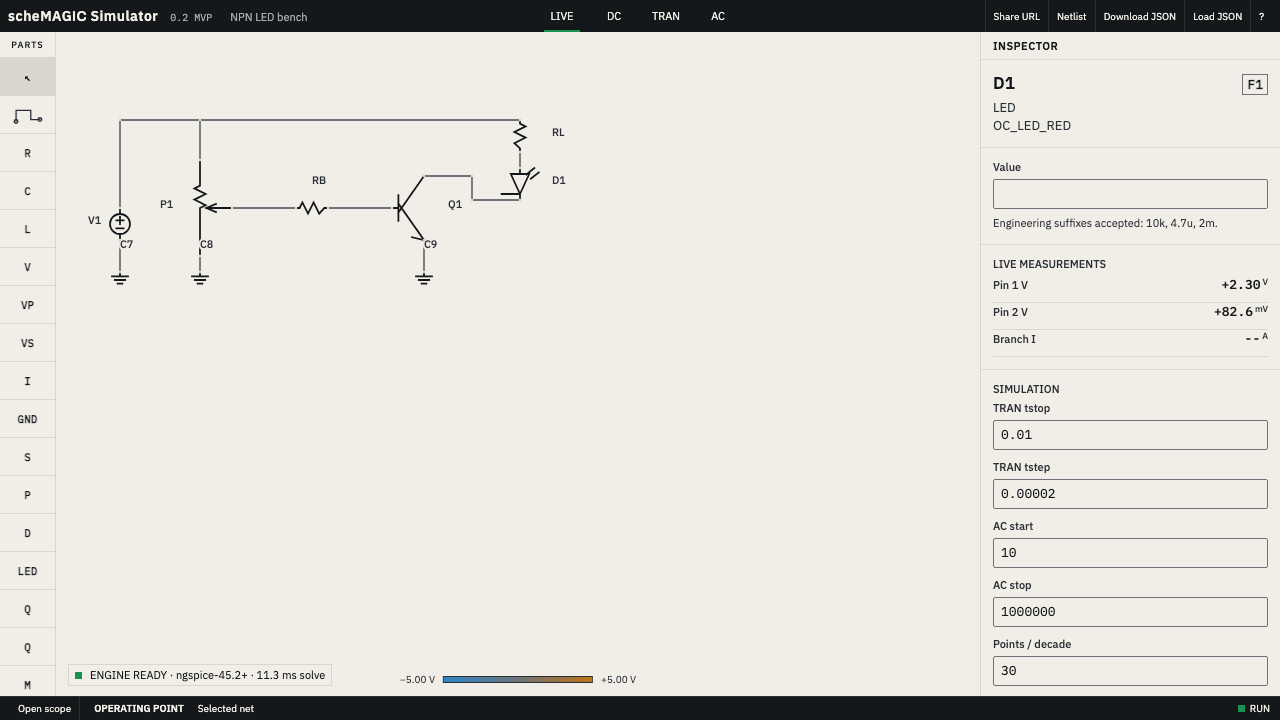
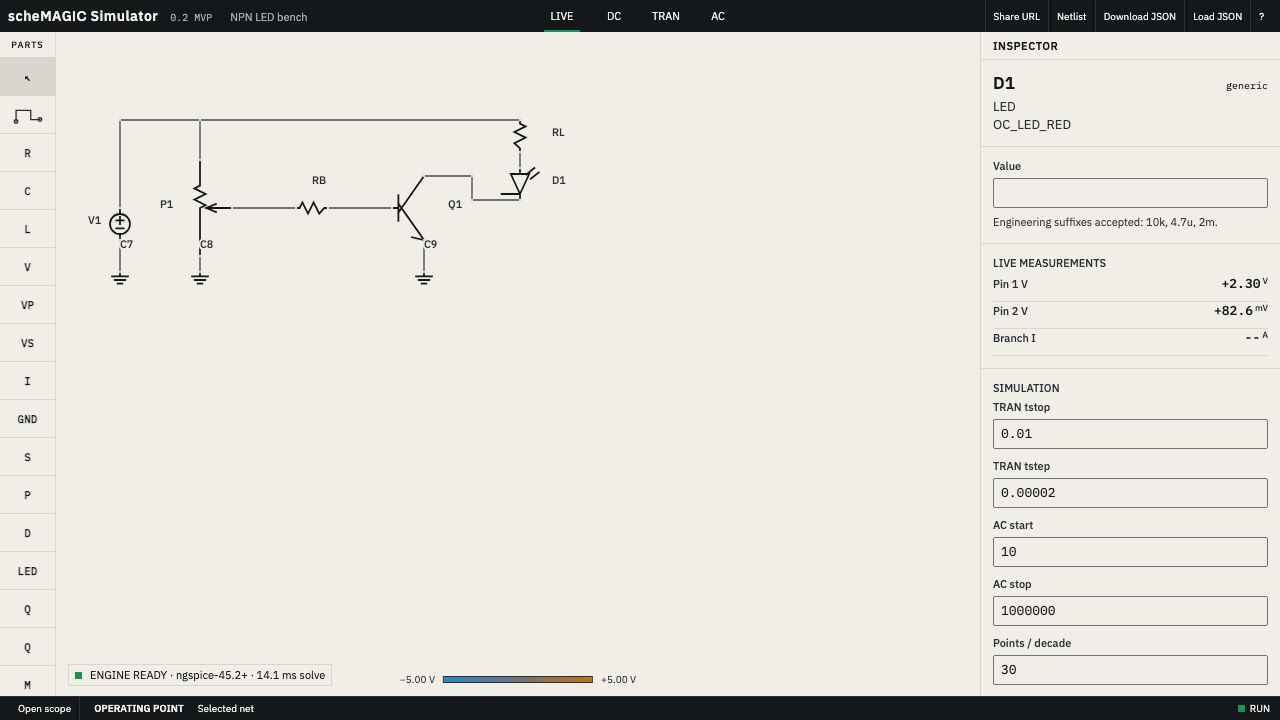
fix: restrict fidelity grades to real parts

diff --git a/apps/web/src/main.ts b/apps/web/src/main.ts
@@ -44,7 +44,7 @@ function componentCurrent(component:CircuitComponent):number|undefined{const nam
 function setStatus(text:string,state:"ready"|"busy"|"error"){statusText.textContent=text;statusIndicator.className=`run-indicator${state==="ready"?"":` ${state}`}`;must<HTMLElement>("#engine-banner").dataset.testid=state==="ready"?"engine-ready":"engine-banner";}
 function detail(component:CircuitComponent){const part=partByType(component.type);return{ref:component.label?.text??component.id.toUpperCase(),name:part.name,identity:component.mpn??"generic",note:part.note};}
 function valueLabel(component:CircuitComponent){if(component.type.startsWith("vsource"))return"Voltage";if(component.type==="isource")return"Current";if(component.type==="capacitor")return"Capacitance";if(component.type==="inductor")return"Inductance";return"Value";}
-function renderInspector(){const component=selected();if(!component){inspector.innerHTML=`<section class="inspector-section"><span class="field-label">NO SELECTION</span><p>Select a part to edit its properties.</p></section>${simConfigMarkup()}`;bindInspector();return;}const info=detail(component),current=componentCurrent(component),value=component.value??"";const editable=component.type!=="ground"&&component.type!=="opamp_ideal"&&component.type!=="bjt_npn"&&component.type!=="bjt_pnp"&&component.type!=="nmos"&&component.type!=="pmos";const pins=(generated?.componentNodes[component.id]??componentPinCount(component)).map((_,index)=>`<div class="measure-row"><span class="measure-label">Pin ${index+1} V</span>${readingMarkup(pinVoltage(component.id,index),"V")}</div>`).join("");inspector.innerHTML=`<section class="inspector-section"><div class="part-heading"><span class="part-ref">${esc(info.ref)}</span>${component.mpn?`<span class="fidelity">F1</span>`:`<span class="generic-tag">generic</span>`}</div><div class="part-name">${esc(info.name)}<br>${esc(info.identity)}</div>${info.note?`<p class="honesty-note">${esc(info.note)}</p>`:""}</section>${editable?`<section class="inspector-section"><label class="field-label" for="component-value">${valueLabel(component)}</label><input class="value-input" id="component-value" value="${esc(String(value))}" inputmode="decimal"/><p class="honesty-note">Engineering suffixes accepted: 10k, 4.7u, 2m.</p>${component.type==="potentiometer"?`<label class="field-label wiper-label" for="wiper-value">Wiper position</label><input class="value-input" id="wiper-value" type="range" min="0.005" max="0.995" step="0.001" value="${Number(component.params?.t??.5)}"/><output id="wiper-percent">${Math.round(Number(component.params?.t??.5)*100)} %</output>`:""}${component.type==="switch_spst"?`<label class="switch-row"><input id="switch-state" type="checkbox" ${component.params?.closed?"checked":""}/> Closed</label>`:""}</section>`:""}<section class="inspector-section"><span class="field-label">LIVE MEASUREMENTS</span>${pins}<div class="measure-row"><span class="measure-label">Branch I</span>${readingMarkup(current,"A")}</div></section>${simConfigMarkup()}`;bindInspector();}
+function renderInspector(){const component=selected();if(!component){inspector.innerHTML=`<section class="inspector-section"><span class="field-label">NO SELECTION</span><p>Select a part to edit its properties.</p></section>${simConfigMarkup()}`;bindInspector();return;}const info=detail(component),current=componentCurrent(component),value=component.value??"";const editable=component.type!=="ground"&&component.type!=="opamp_ideal"&&component.type!=="bjt_npn"&&component.type!=="bjt_pnp"&&component.type!=="nmos"&&component.type!=="pmos";const pins=(generated?.componentNodes[component.id]??componentPinCount(component)).map((_,index)=>`<div class="measure-row"><span class="measure-label">Pin ${index+1} V</span>${readingMarkup(pinVoltage(component.id,index),"V")}</div>`).join("");inspector.innerHTML=`<section class="inspector-section"><div class="part-heading"><span class="part-ref">${esc(info.ref)}</span>${component.mpn&&!component.mpn.startsWith("OC_")?`<span class="fidelity">F1</span>`:`<span class="generic-tag">generic</span>`}</div><div class="part-name">${esc(info.name)}<br>${esc(info.identity)}</div>${info.note?`<p class="honesty-note">${esc(info.note)}</p>`:""}</section>${editable?`<section class="inspector-section"><label class="field-label" for="component-value">${valueLabel(component)}</label><input class="value-input" id="component-value" value="${esc(String(value))}" inputmode="decimal"/><p class="honesty-note">Engineering suffixes accepted: 10k, 4.7u, 2m.</p>${component.type==="potentiometer"?`<label class="field-label wiper-label" for="wiper-value">Wiper position</label><input class="value-input" id="wiper-value" type="range" min="0.005" max="0.995" step="0.001" value="${Number(component.params?.t??.5)}"/><output id="wiper-percent">${Math.round(Number(component.params?.t??.5)*100)} %</output>`:""}${component.type==="switch_spst"?`<label class="switch-row"><input id="switch-state" type="checkbox" ${component.params?.closed?"checked":""}/> Closed</label>`:""}</section>`:""}<section class="inspector-section"><span class="field-label">LIVE MEASUREMENTS</span>${pins}<div class="measure-row"><span class="measure-label">Branch I</span>${readingMarkup(current,"A")}</div></section>${simConfigMarkup()}`;bindInspector();}
 function componentPinCount(component:CircuitComponent):string[]{return Array.from({length:partByType(component.type).pins.length},()=>"")}
 function simConfigMarkup(){const tran=circuit.sim.tran??{tstop:.01,tstep:.00002},ac=circuit.sim.ac??{fstart:10,fstop:1e6,pointsPerDecade:30,sweep:"dec" as const};return`<section class="inspector-section"><span class="field-label">SIMULATION</span><label class="field-label">TRAN tstop</label><input class="value-input sim-field" data-sim="tstop" value="${tran.tstop}"/><label class="field-label sim-label">TRAN tstep</label><input class="value-input sim-field" data-sim="tstep" value="${tran.tstep??""}"/><label class="field-label sim-label">AC start</label><input class="value-input sim-field" data-sim="fstart" value="${ac.fstart}"/><label class="field-label sim-label">AC stop</label><input class="value-input sim-field" data-sim="fstop" value="${ac.fstop}"/><label class="field-label sim-label">Points / decade</label><input class="value-input sim-field" data-sim="points" value="${ac.pointsPerDecade}"/></section>`;}
 function bindInspector(){const value=document.querySelector<HTMLInputElement>("#component-value");value?.addEventListener("change",()=>{if(!selectedId)return;const raw=value.value.trim();if(!Number.isFinite(parseEngineering(raw,NaN)))return;editor.edit(doc=>{const c=doc.components.find(item=>item.id===selectedId);if(c)c.value=raw;});});const wiper=document.querySelector<HTMLInputElement>("#wiper-value");wiper?.addEventListener("input",()=>{const t=Number(wiper.value);must<HTMLOutputElement>("#wiper-percent").textContent=`${Math.round(t*100)} %`;editor.edit(doc=>{const c=doc.components.find(item=>item.id===selectedId);if(c)c.params={...(c.params??{}),t};});});document.querySelector<HTMLInputElement>("#switch-state")?.addEventListener("change",event=>editor.edit(doc=>{const c=doc.components.find(item=>item.id===selectedId);if(c)c.params={...(c.params??{}),closed:(event.target as HTMLInputElement).checked};}));document.querySelectorAll<HTMLInputElement>(".sim-field").forEach(input=>input.addEventListener("change",()=>{const number=parseEngineering(input.value,NaN);if(!Number.isFinite(number)||number<=0)return;editor.edit(doc=>{doc.sim.tran??={tstop:.01,tstep:.00002,maxstep:.00005};doc.sim.ac??={fstart:10,fstop:1e6,pointsPerDecade:30,sweep:"dec"};switch(input.dataset.sim){case"tstop":doc.sim.tran.tstop=number;break;case"tstep":doc.sim.tran.tstep=number;break;case"fstart":doc.sim.ac.fstart=number;break;case"fstop":doc.sim.ac.fstop=number;break;case"points":doc.sim.ac.pointsPerDecade=Math.round(number);break;}});}));}
@@ -52,7 +52,7 @@ function scheduleSave(){clearTimeout(saveTimer);saveTimer=setTimeout(()=>{worksp
 function scheduleSimulation(){clearTimeout(timer);timer=setTimeout(()=>void simulate(),30)}
 function renderDiagnostics(){const stack=must<HTMLElement>("#toast-stack");stack.innerHTML=diagnostics.map((entry,index)=>`<button class="error-toast" data-error="${index}"><span class="fault-glyph"></span>${esc(entry.message)}</button>`).join("");stack.querySelectorAll<HTMLButtonElement>("[data-error]").forEach(button=>button.addEventListener("click",()=>{const entry=diagnostics[Number(button.dataset.error)];if(entry?.componentId){selectedId=entry.componentId;renderInspector();}}));}
 function updateVisuals(){if(!generated)return;const voltages=new Map<string,number>();for(const node of new Set(Object.values(generated.wireNodes)))voltages.set(node,node==="0"?0:scalar(visualResult,`v(${node})`)??0);const vref=snapReference([...voltages.values()]);for(const wire of circuit.wires){const node=generated.wireNodes[wire.id]??"0",voltage=voltages.get(node)??0;editor.setWireStyle(wire.id,{stroke:voltageColor(voltage,vref),dash:voltage<-.05?"8 4":"none",width:Math.abs(voltage)<=.05?.9:1.8});let current=0;for(const component of circuit.components){if(generated.componentNodes[component.id]?.includes(node)){const name=generated.componentCurrents[component.id];if(name){current=scalar(visualResult,name)??0;break;}}}editor.setWireCurrent(wire.id,current);}for(const component of circuit.components.filter(c=>c.type==="led")){const current=Math.abs(componentCurrent(component)??0),visible=Math.max(0,Math.min(1,(current-200e-6)/(20e-3-200e-6)));editor.setLedBrightness(component.id,visible**.65);}const reference=formatEngineering(vref,"V");must<HTMLElement>("#vref-negative").textContent=`−${reference.value.replace(/^[+− ]/,"")} ${reference.unit}`;must<HTMLElement>("#vref-positive").textContent=`+${reference.value.replace(/^[+− ]/,"")} ${reference.unit}`;scopePlot.setData(circuit.sim.mode,circuit.sim.mode==="tran"||circuit.sim.mode==="ac"?scopeResult:visualResult,generated,[],selectedId);scopeEmpty.hidden=(scopeResult?.vectors.length??0)>0;renderInspector();renderDiagnostics();}
-async function simulate(){const generation=++solve;setStatus("Running ngspice WebAssembly solve","busy");diagnostics=loadDiagnostic?[loadDiagnostic]:[];const validation=validateCircuit(circuit);if(validation.length){diagnostics.push(...validation.map(issue=>({stage:"parse" as const,message:issue.message,...(issue.componentId?{componentId:issue.componentId}:{})})));setStatus(validation[0]!.message,"error");renderDiagnostics();return;}try{generated=generateNetlist(circuit,"op");const op=await client.runOpPoint(generated.netlist);if(generation!==solve)return;visualResult=op;window.__ocMetrics.rawfileBytes=op.rawfileBytes;window.__ocMetrics.warmOpMs.push(op.elapsedMs);if(circuit.sim.mode==="tran"||circuit.sim.mode==="ac"){generated=generateNetlist(circuit,circuit.sim.mode);scopeResult=circuit.sim.mode==="tran"?await client.runTransient(generated.netlist):await client.runAC(generated.netlist);if(generation!==solve)return;window.__ocMetrics.rawfileBytes=Math.max(op.rawfileBytes,scopeResult.rawfileBytes);}else scopeResult=undefined;setStatus(`ENGINE READY · ${engineLabel} · ${op.elapsedMs.toFixed(1)} ms solve`,"ready");updateVisuals();}catch(error){if(generation!==solve)return;const failure=error instanceof SimulationFailure?error:undefined;diagnostics=failure?.detail.diagnostics.length?failure.detail.diagnostics:[{stage:"engine",message:error instanceof Error?error.message:String(error)}];setStatus(diagnostics[0]?.message??"Simulation failed","error");renderDiagnostics();}finally{}}
+async function simulate(){const generation=++solve;setStatus("Running ngspice WebAssembly solve","busy");diagnostics=loadDiagnostic?[loadDiagnostic]:[];const validation=validateCircuit(circuit);if(validation.length){diagnostics.push(...validation.map(issue=>({stage:"parse" as const,message:issue.message,...(issue.componentId?{componentId:issue.componentId}:{})})));setStatus(validation[0]!.message,"error");renderDiagnostics();return;}try{generated=generateNetlist(circuit,"op");const op=await client.runOpPoint(generated.netlist);if(generation!==solve)return;visualResult=op;window.__ocMetrics.rawfileBytes=op.rawfileBytes;window.__ocMetrics.warmOpMs.push(op.elapsedMs);if(circuit.sim.mode==="tran"||circuit.sim.mode==="ac"){generated=generateNetlist(circuit,circuit.sim.mode);scopeResult=circuit.sim.mode==="tran"?await client.runTransient(generated.netlist):await client.runAC(generated.netlist);if(generation!==solve)return;window.__ocMetrics.rawfileBytes=Math.max(op.rawfileBytes,scopeResult.rawfileBytes);}else scopeResult=undefined;setStatus(`ENGINE READY · ${engineLabel} · ${op.elapsedMs.toFixed(1)} ms solve`,"ready");updateVisuals();}catch(error){if(generation!==solve)return;const failure=error instanceof SimulationFailure?error:undefined;diagnostics=failure?.detail.diagnostics.length?failure.detail.diagnostics.map(entry=>{if(entry.componentId||entry.netLine===undefined)return entry;const mapped=generated?.lineMap.find(line=>line.line===entry.netLine);return mapped?.componentId?{...entry,componentId:mapped.componentId}:entry;}):[{stage:"engine",message:error instanceof Error?error.message:String(error)}];setStatus(diagnostics[0]?.message??"Simulation failed","error");renderDiagnostics();}finally{}}
 function bind(){document.querySelectorAll<HTMLButtonElement>("[data-tool]").forEach(button=>button.addEventListener("click",()=>{editor.setTool(button.dataset.tool as Parameters<typeof editor.setTool>[0]);document.querySelectorAll("[data-tool]").forEach(item=>item.classList.toggle("active",item===button));}));document.querySelectorAll<HTMLButtonElement>("[data-mode]").forEach(button=>button.addEventListener("click",()=>{const mode=button.dataset.mode as AnalysisMode;editor.edit(doc=>{doc.sim.mode=mode});document.querySelectorAll<HTMLButtonElement>("[data-mode]").forEach(item=>item.setAttribute("aria-selected",String(item===button)));must<HTMLElement>("#scope-title").textContent=mode==="tran"?"TRANSIENT":mode==="ac"?"AC RESPONSE":"OPERATING POINT";}));must<HTMLButtonElement>("#scope-toggle").addEventListener("click",()=>{shell.classList.toggle("scope-collapsed");must<HTMLButtonElement>("#scope-toggle").textContent=shell.classList.contains("scope-collapsed")?"Open scope":"Close scope";});must<HTMLButtonElement>("#copy-link").addEventListener("click",async()=>{const url=shareUrl(circuit);if(url.length>8000)setStatus("Share URL is long. Download JSON is recommended.","error");try{await navigator.clipboard.writeText(url);setStatus("Share URL copied","ready");}catch{history.replaceState(null,"",url);setStatus("Share URL placed in the address bar","ready");}});must<HTMLButtonElement>("#export-spice").addEventListener("click",()=>{try{download(`${workspace!.name}.cir`,generateNetlist(circuit,circuit.sim.mode==="live"?"op":circuit.sim.mode).netlist,"text/plain");}catch(error){setStatus(error instanceof Error?error.message:String(error),"error");}});must<HTMLButtonElement>("#export-json").addEventListener("click",()=>download(`${workspace!.name}.json`,canonicalizeCircuit(circuit),"application/json"));must<HTMLButtonElement>("#import-json").addEventListener("click",()=>must<HTMLInputElement>("#json-file").click());must<HTMLInputElement>("#json-file").addEventListener("change",async event=>{const file=(event.target as HTMLInputElement).files?.[0];if(!file)return;try{const loaded=migrateCircuit(JSON.parse(await file.text()));workspace=makeWorkspace(loaded);circuit=loaded;editor.setDocument(loaded);await saveWorkspace(workspace);scheduleSimulation();}catch(error){diagnostics=[{stage:"parse",message:error instanceof Error?error.message:String(error)}];renderDiagnostics();}});const shortcut=must<HTMLElement>("#shortcut-overlay");must<HTMLButtonElement>("#help-button").addEventListener("click",()=>shortcut.hidden=false);shortcut.querySelector("[data-close-overlay]")?.addEventListener("click",()=>shortcut.hidden=true);window.addEventListener("keydown",event=>{if(event.key==="?"&&!(event.target instanceof HTMLInputElement)){shortcut.hidden=false;}if(event.key==="Escape")shortcut.hidden=true;});bindWorkspaces();}
 function bindWorkspaces(){const overlay=must<HTMLElement>("#workspace-overlay"),button=must<HTMLButtonElement>("#workspace-button");button.addEventListener("click",()=>{overlay.hidden=false;void renderWorkspaceList();});overlay.querySelector("[data-close-workspaces]")?.addEventListener("click",()=>overlay.hidden=true);must<HTMLButtonElement>("#new-workspace").addEventListener("click",async()=>{workspace=makeWorkspace(structuredClone(demoCircuit),"Untitled circuit");workspace.document.meta.title=workspace.name;editor.setDocument(workspace.document);circuit=workspace.document;await saveWorkspace(workspace);button.textContent=workspace.name;overlay.hidden=true;scheduleSimulation();});must<HTMLButtonElement>("#rename-workspace").addEventListener("click",async()=>{const name=prompt("Workspace name",workspace!.name)?.trim();if(!name)return;workspace!.name=name;editor.edit(doc=>doc.meta.title=name);workspace!.updatedAt=Date.now();await saveWorkspace(workspace!);button.textContent=name;void renderWorkspaceList();});must<HTMLButtonElement>("#duplicate-workspace").addEventListener("click",async()=>{workspace=makeWorkspace(circuit,`${workspace!.name} copy`);workspace.document.meta.title=workspace.name;editor.setDocument(workspace.document);circuit=workspace.document;await saveWorkspace(workspace);button.textContent=workspace.name;void renderWorkspaceList();});must<HTMLButtonElement>("#delete-workspace").addEventListener("click",async()=>{await deleteWorkspace(workspace!.id);workspace=makeWorkspace(structuredClone(demoCircuit));circuit=workspace.document;editor.setDocument(circuit);await saveWorkspace(workspace);button.textContent=workspace.name;overlay.hidden=true;scheduleSimulation();});}
 async function renderWorkspaceList(){const rows=await listWorkspaces();must<HTMLElement>("#workspace-list").innerHTML=rows.map(row=>`<button class="workspace-row" data-workspace="${row.id}"><strong>${esc(row.name)}</strong><span>${new Date(row.updatedAt).toLocaleString()}</span></button>`).join("");document.querySelectorAll<HTMLButtonElement>("[data-workspace]").forEach(row=>row.addEventListener("click",async()=>{const loaded=await loadWorkspace(row.dataset.workspace!);if(!loaded)return;workspace=loaded;circuit=loaded.document;editor.setDocument(circuit);must<HTMLElement>("#workspace-button").textContent=workspace.name;must<HTMLElement>("#workspace-overlay").hidden=true;scheduleSimulation();}));}

diff --git a/apps/web/e2e/editor.spec.ts b/apps/web/e2e/editor.spec.ts
@@ -7,7 +7,8 @@ test.beforeEach(async({page})=>{await page.goto("/");await page.evaluate(async()
 test("editor MVP workflow",async({page,context,browserName},testInfo)=>{
   await context.grantPermissions(["clipboard-read","clipboard-write"],{origin:"http://127.0.0.1:4173"}).catch(()=>undefined);
   if(testInfo.project.name==="chromium")await page.screenshot({path:resolve(shots,"default-bench.png"),fullPage:true});
-  await expect(page.locator(".fidelity")).toHaveText("F1");
+  await expect(page.locator(".generic-tag")).toHaveText("generic");
+  await page.locator('[data-component-id="c4"] .editor-component-hit').click({force:true});await expect(page.locator(".fidelity")).toHaveText("F1");
   await page.locator('[data-component-id="c2"] .editor-component-hit').click({force:true});await expect(page.locator(".generic-tag")).toHaveText("generic");await expect(page.locator("#wiper-percent")).toHaveText("50 %");
   const host=page.locator("#editor-host"),box=await host.boundingBox();if(!box)throw new Error("Editor host is not visible");
   await page.locator('[data-tool="resistor"]').click();await page.mouse.click(box.x+400,box.y+240);await expect(page.locator(".editor-component.selected")).toHaveCount(1);
